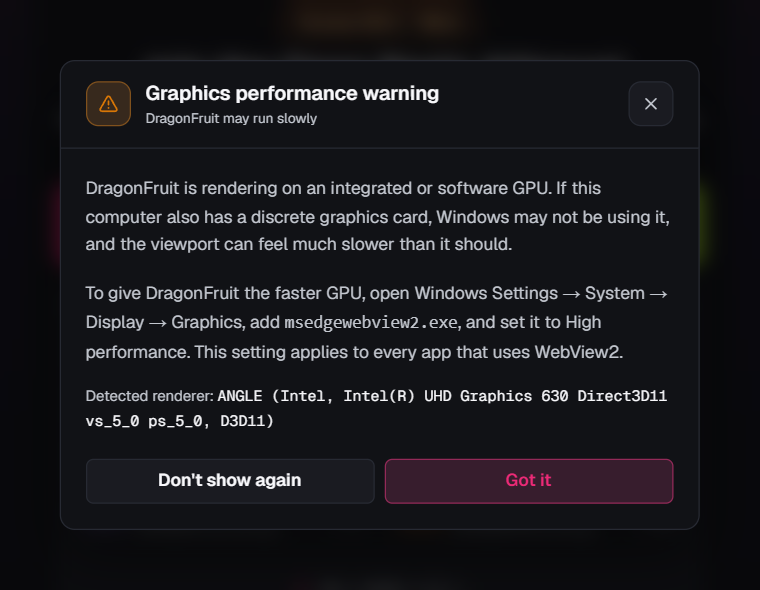
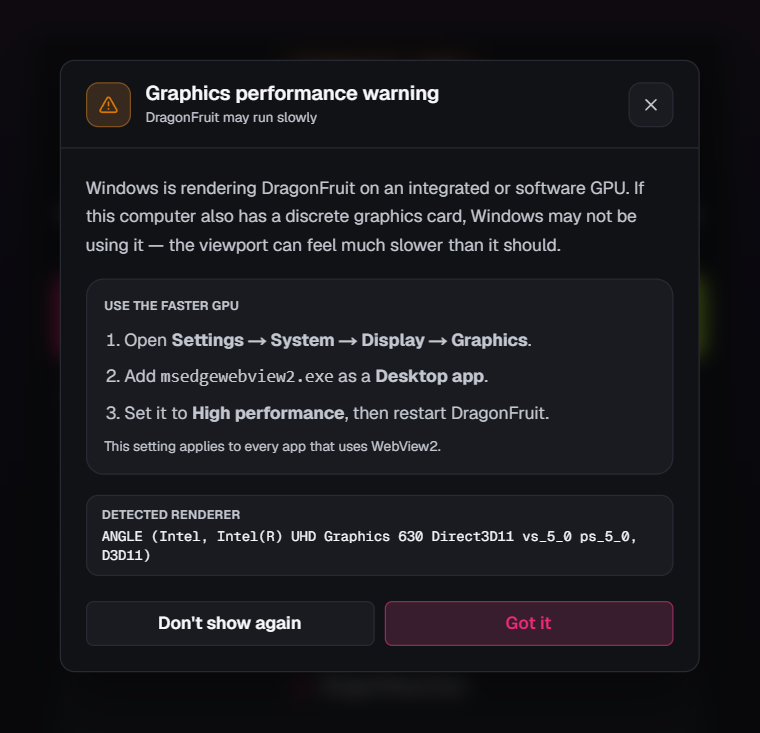
fix: restructure the integrated GPU warning for readability
Split the wall of text into a lead sentence, a numbered Use the faster GPU card, and a separate detected-renderer block. Wrap the renderer at word boundaries and refresh the troubleshooting screenshot.

diff --git a/src/components/modals/GpuPerformanceWarningModal.tsx b/src/components/modals/GpuPerformanceWarningModal.tsx
@@ -80,23 +80,65 @@ export function GpuPerformanceWarningModal() {
     >
       <p className="text-sm leading-relaxed" style={{ color: 'var(--text-muted)' }}>
         <Trans>
-          DragonFruit is rendering on an integrated or software GPU. If this computer also has a
-          discrete graphics card, Windows may not be using it, and the viewport can feel much
+          Windows is rendering DragonFruit on an integrated or software GPU. If this computer also
+          has a discrete graphics card, Windows may not be using it — the viewport can feel much
           slower than it should.
         </Trans>
       </p>
-      <p className="text-sm leading-relaxed" style={{ color: 'var(--text-muted)' }}>
-        <Trans>
-          To give DragonFruit the faster GPU, open Windows Settings → System → Display → Graphics,
-          add <code>msedgewebview2.exe</code>, and set it to High performance. This setting applies
-          to every app that uses WebView2.
-        </Trans>
-      </p>
-      {renderer ? (
-        <p className="text-xs leading-relaxed" style={{ color: 'var(--text-muted)' }}>
-          <Trans>Detected renderer:</Trans>{' '}
-          <span className="font-mono break-all" style={{ color: 'var(--text-strong)' }}>{renderer}</span>
+
+      <div
+        className="rounded-lg border p-3.5"
+        style={{ borderColor: 'var(--border-subtle)', background: 'var(--surface-1)' }}
+      >
+        <p
+          className="text-[10px] font-semibold uppercase tracking-wide"
+          style={{ color: 'var(--text-muted)' }}
+        >
+          <Trans>Use the faster GPU</Trans>
         </p>
+        <ol
+          className="mt-2 list-decimal space-y-1.5 pl-4 text-sm leading-relaxed"
+          style={{ color: 'var(--text-muted)' }}
+        >
+          <li>
+            <Trans>
+              Open <strong>Settings → System → Display → Graphics</strong>.
+            </Trans>
+          </li>
+          <li>
+            <Trans>
+              Add <code>msedgewebview2.exe</code> as a <strong>Desktop app</strong>.
+            </Trans>
+          </li>
+          <li>
+            <Trans>
+              Set it to <strong>High performance</strong>, then restart DragonFruit.
+            </Trans>
+          </li>
+        </ol>
+        <p className="mt-2 text-[11px] leading-snug" style={{ color: 'var(--text-muted)' }}>
+          <Trans>This setting applies to every app that uses WebView2.</Trans>
+        </p>
+      </div>
+
+      {renderer ? (
+        <div
+          className="rounded-md border px-3 py-2"
+          style={{ borderColor: 'var(--border-subtle)', background: 'var(--surface-1)' }}
+        >
+          <div
+            className="text-[10px] font-semibold uppercase tracking-wide"
+            style={{ color: 'var(--text-muted)' }}
+          >
+            <Trans>Detected renderer</Trans>
+          </div>
+          <div
+            className="mt-0.5 font-mono text-[11px] leading-snug break-words"
+            style={{ color: 'var(--text-strong)' }}
+          >
+            {renderer}
+          </div>
+        </div>
       ) : null}
     </StructuredDialogModal>
   );
